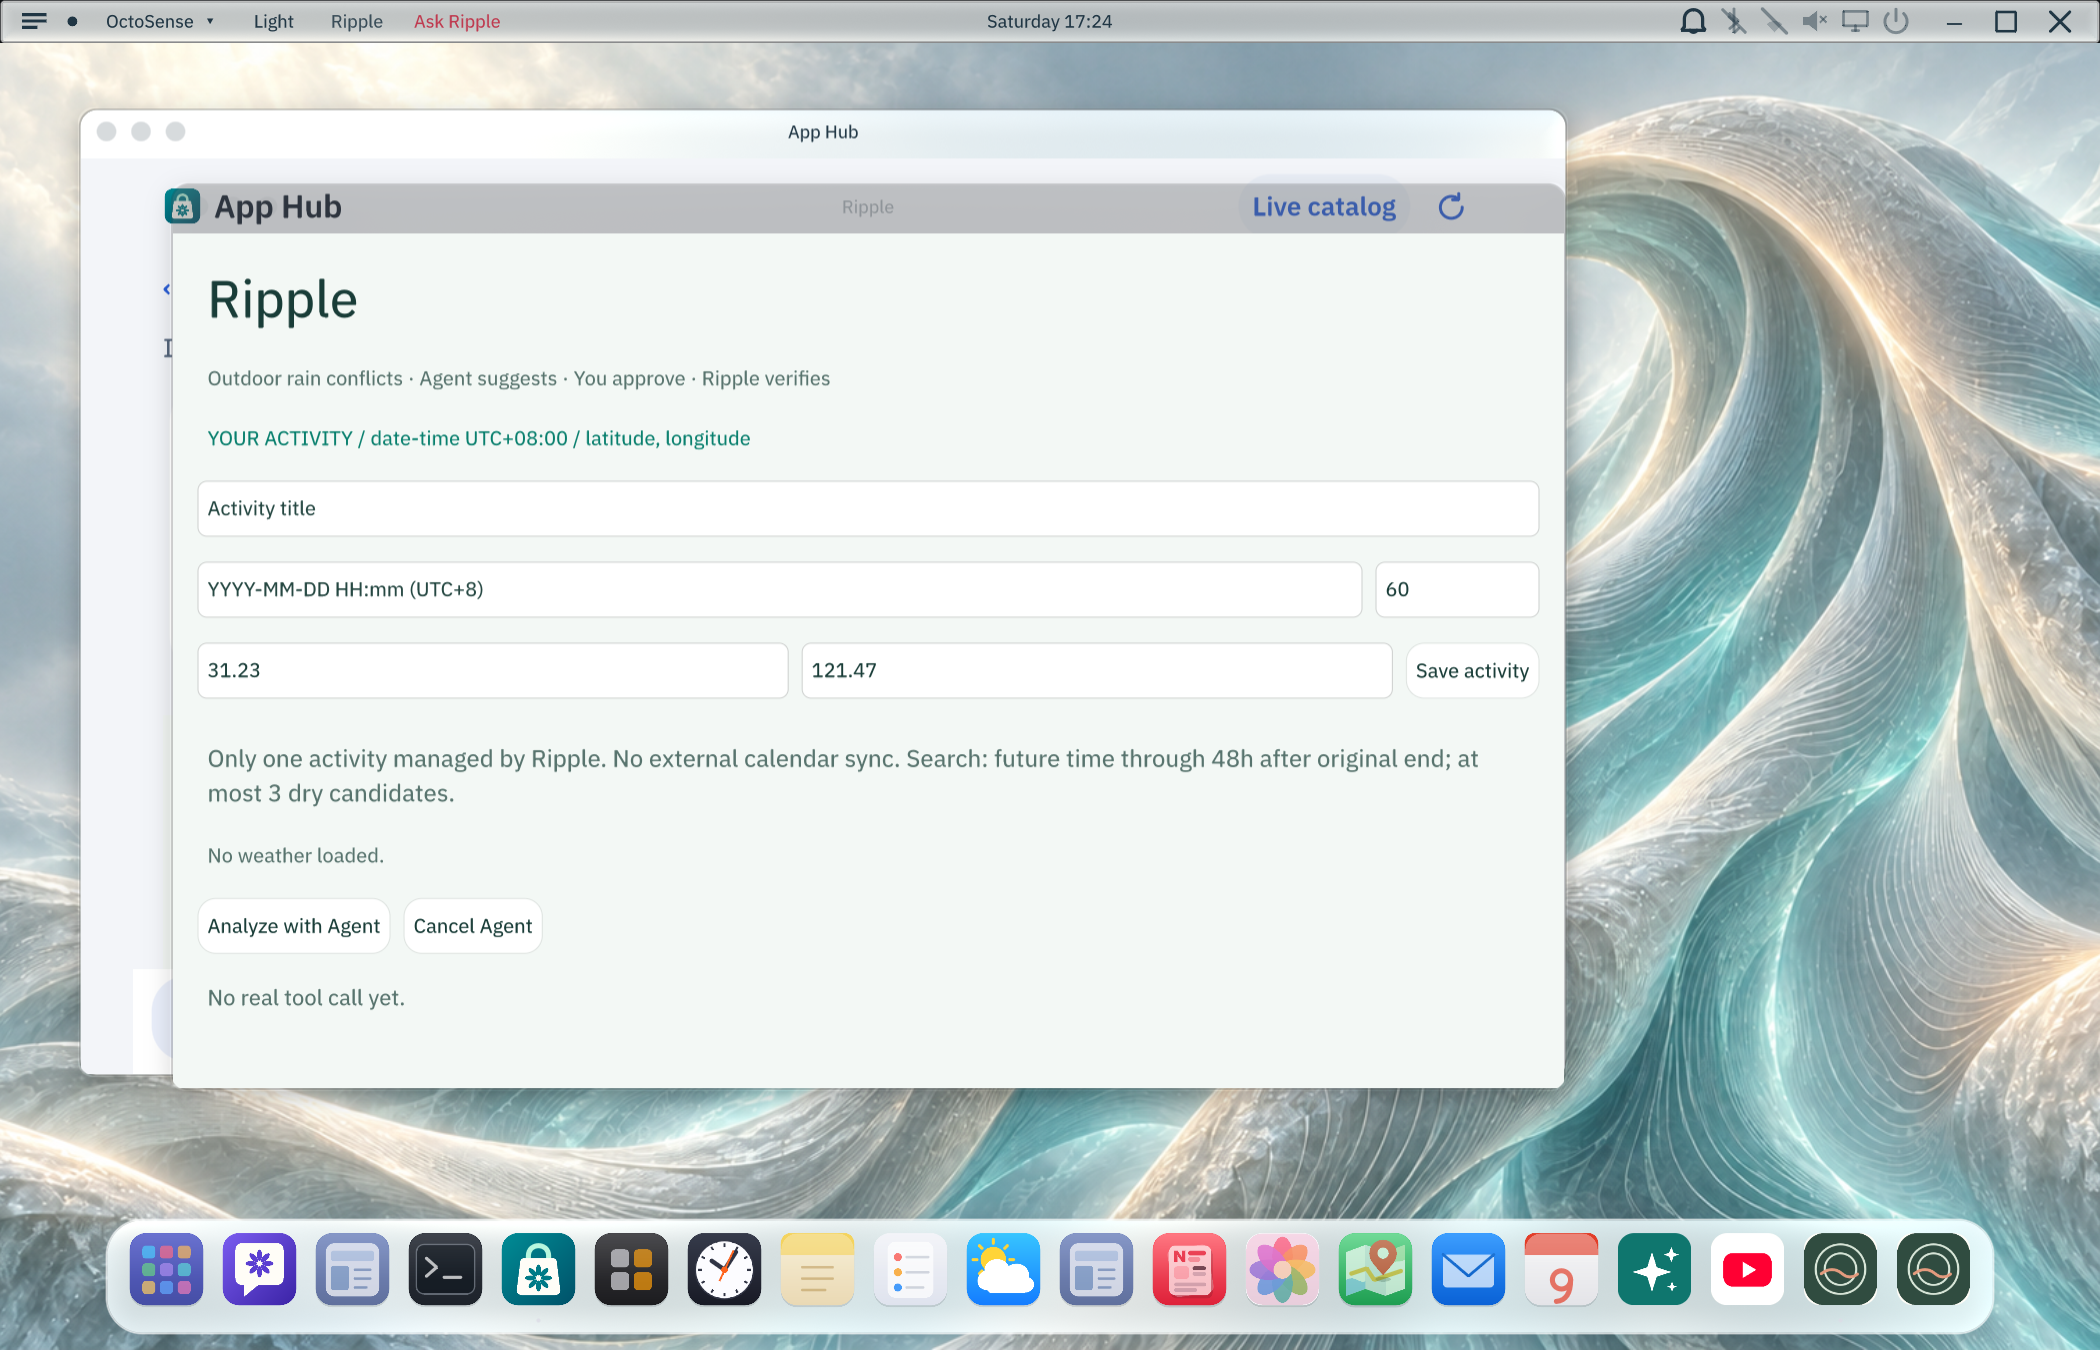
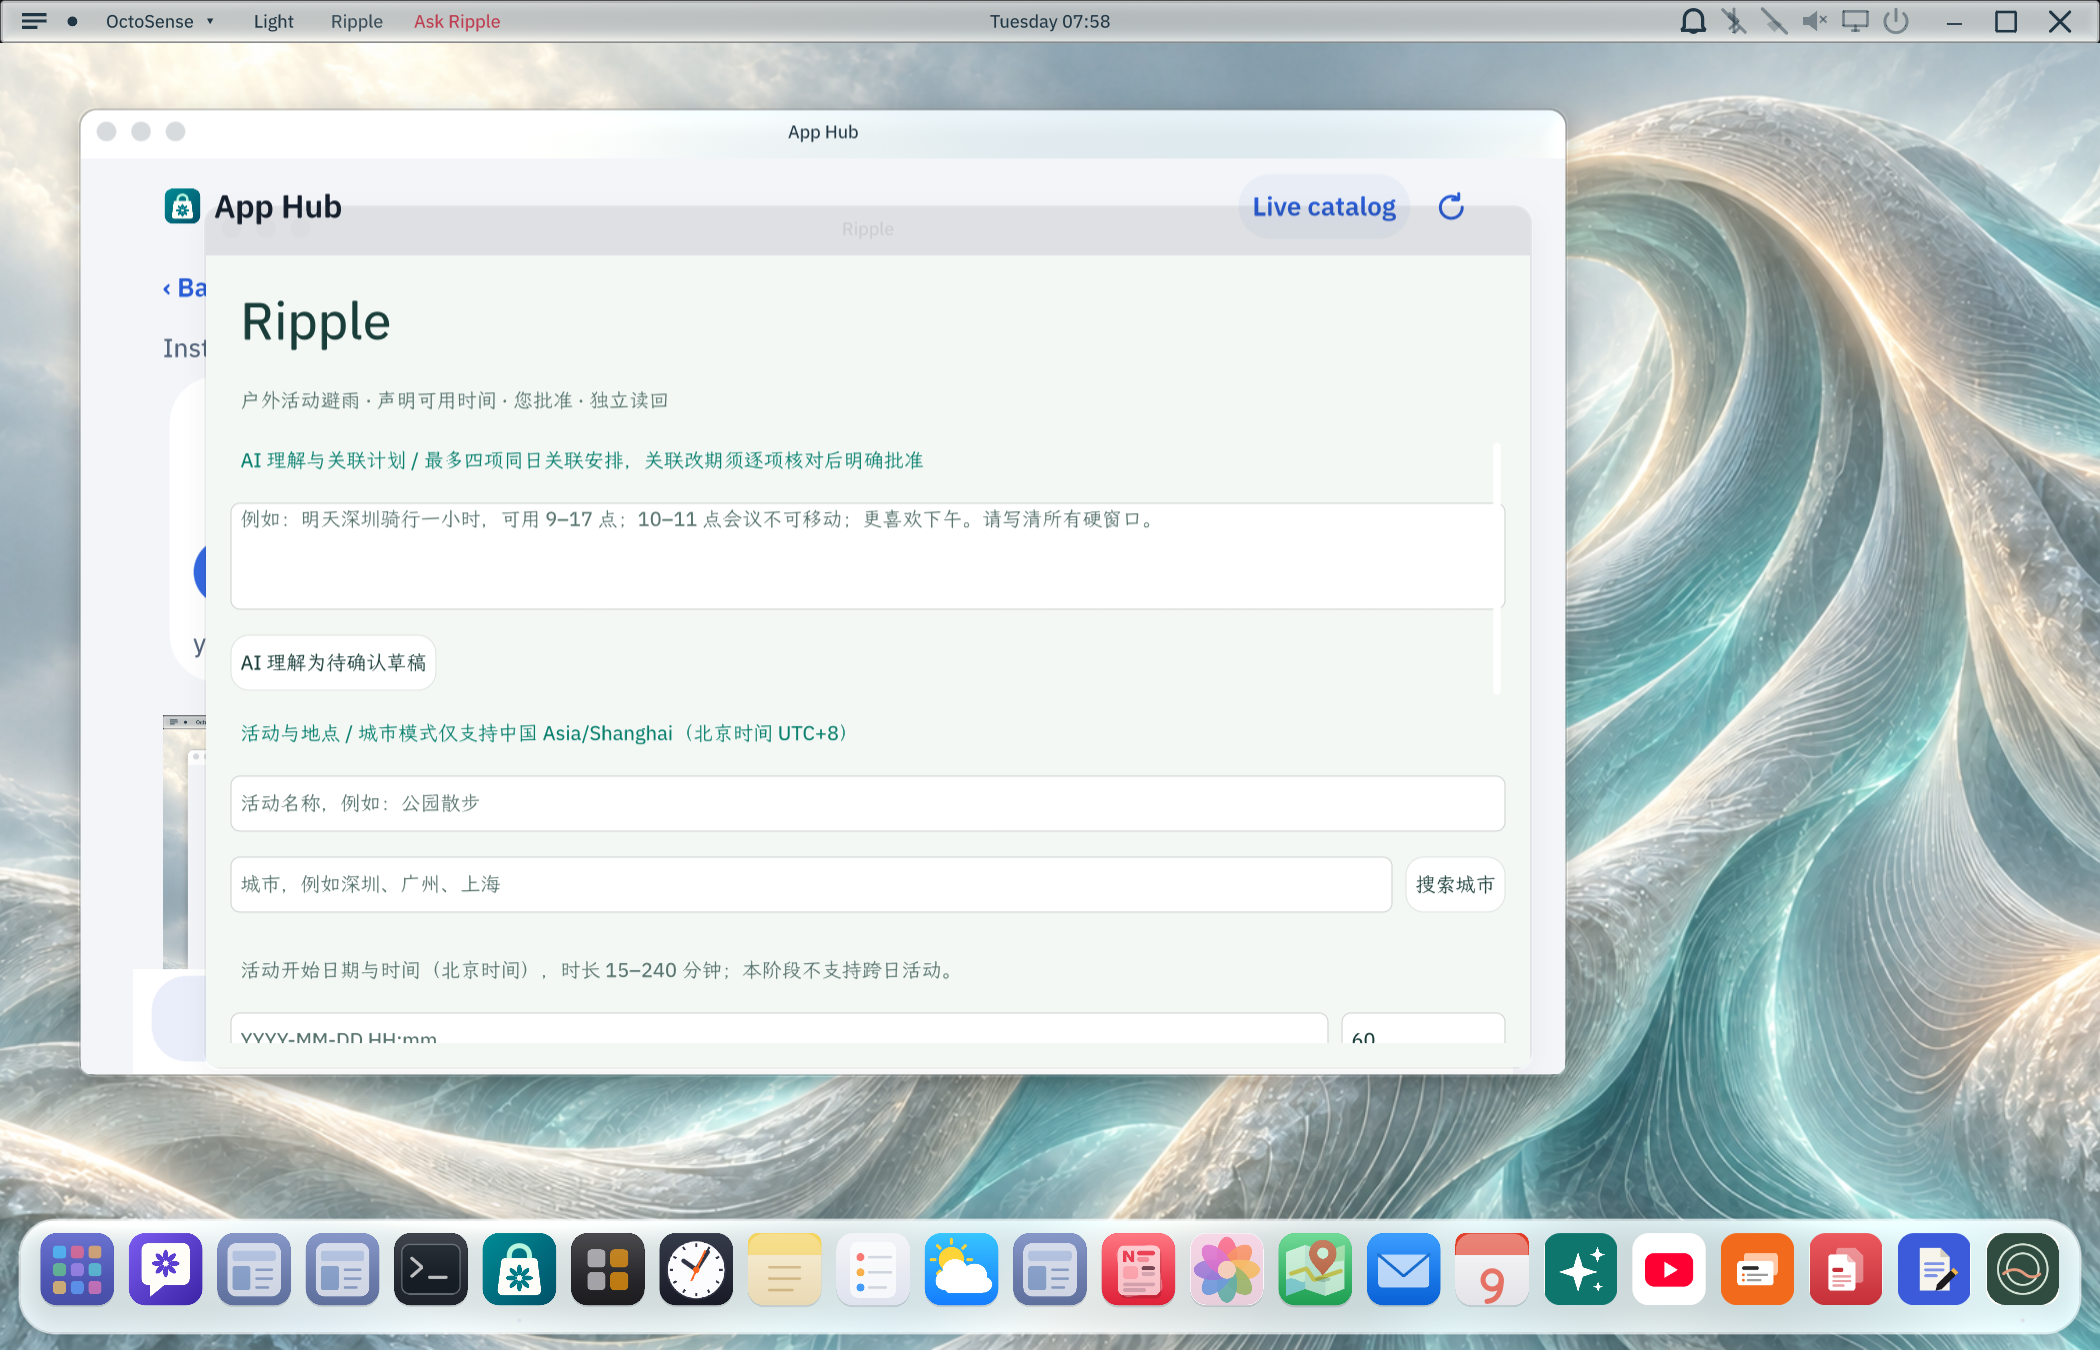
Prepare local release candidate and preserve active change context

diff --git a/phase1/business-harness/src/stage4_tests.rs b/phase1/business-harness/src/stage4_tests.rs
@@ -41,6 +41,9 @@ fn stage4_change_response_and_existing_execution() {
         invoke(cx,&card,id!(s4_begin),&[]);let context=call("ripple.context.read",json!({"task_id":"s4-change"}),cx);let mut args=context["search_bounds"].clone();args["task_id"]=json!("s4-change");args["read_token"]=context["read_token"].clone();let search=call("ripple.slots.search",args,cx);
         let choice=json!({"task_id":"s4-change","read_token":context["read_token"],"decision":"PROPOSE","search_id":search["search_id"],"candidate_id":search["candidates"][0]["candidate_id"]});invoke(cx,&card,id!(s4_finish),&[&choice.to_string()]);(context,search)
     };
+    invoke(&mut cx,&card,id!(s4_begin),&[]);let before_busy=report(&mut cx);
+    invoke(&mut cx,&card,id!(interpret_input),&[]);let after_busy=report(&mut cx);
+    assert_eq!(after_busy["change"],before_busy["change"],"a busy repeat click must preserve the active change explanation");
     let (context,search)=propose(&mut cx);assert!(context["change"].is_object());assert_eq!(report(&mut cx)["status"],"AWAITING_APPROVAL");
     assert_eq!(read(jail.join("schedule.txt")),added);invoke(&mut cx,&card,id!(decline),&[]);assert_eq!(read(jail.join("change-response.json"))["outcome"],"DECLINED");
     invoke(&mut cx,&card,id!(boot),&[]);invoke(&mut cx,&card,id!(s4_check),&[]);assert_eq!(read(jail.join("change-response.json"))["outcome"],"DECLINED");assert_eq!(read(jail.join("schedule.txt")),added);

diff --git a/stage2/planning_verify.py b/stage2/planning_verify.py
@@ -12,7 +12,7 @@ sys.path.insert(0,str(Path(__file__).resolve().parents[1]/'stage1'))
 import verify as v
 
 P=Path(__file__).resolve().parents[1]
-phase='4' if 'RIPPLE_STAGE4_AUDIT' in os.environ else '3' if 'RIPPLE_STAGE3_AUDIT' in os.environ else '2'
+phase=next((n for n in ['5','4','3'] if 'RIPPLE_STAGE'+n+'_AUDIT' in os.environ),'2')
 A=Path(os.environ['RIPPLE_STAGE'+phase+'_AUDIT']).resolve()
 assert A.parent==(P.parent/'_audits/Ripple').resolve() and A.name.startswith('Stage'+phase+'-')
 run=os.environ['RIPPLE_TEST_RUN']

diff --git a/AGENTS.md b/AGENTS.md
@@ -2,7 +2,7 @@
 
 1. 唯一正式开发目录是 `F:\桌面\01 项目开发\黑客松\Ripple`。正式功能、修复、提交、构建和验收在本仓库进行；默认开发分支为 `main`。
 2. 操作前核对真实仓库根目录、分支、HEAD、索引和磁盘源码。阶段结束时再次核对，不能仅凭某个分支引用宣称工作文件已更新。
-3. 当前开发应用入口为 `stage1/bundle/main.splash`，版本 `0.6.0-stage4`。根目录 `bundle/`、`v0.1.0` 和 `submission/ripple-v0.1.0` 是受保护的历史参赛版本；开发版合法接收状态单独判断。
+3. 当前开发应用入口为 `stage1/bundle/main.splash`，版本 `0.6.1-rc.1`。根目录 `bundle/`、`v0.1.0` 和 `submission/ripple-v0.1.0` 是受保护的历史参赛版本；开发版合法接收状态单独判断。
 4. Workspace 中的 Ripple 目录是保留的历史副本与证据，不是正式源码入口。未经用户批准，不再建立长期开发副本或替代工作目录。
 5. 常规保护使用明确的 Git 分支、提交和增量备份。临时测试必须有隔离目录、明确生命周期，且不能独占最新源码；不能复制旧 Kernel core、会话数据库或活动作为新测试环境。
 6. 保留历史配置、数据和证据。删除副本、修改真实凭据或历史 ACL、推送、发布及替换冻结包均需用户单独授权。不得 reset --hard、clean、强制覆盖或清理恢复引用。

diff --git a/stage1/bundle/PRIVACY.md b/stage1/bundle/PRIVACY.md
@@ -1,4 +1,4 @@
-# Ripple 0.6.0-stage4 local privacy notice
+# Ripple 0.6.1-rc.1 local privacy notice
 
 This unpublished local build manages one primary activity and up to four related same-city, same-day planning facts confirmed by the user. It has no external calendar integration or publisher backend.
 
